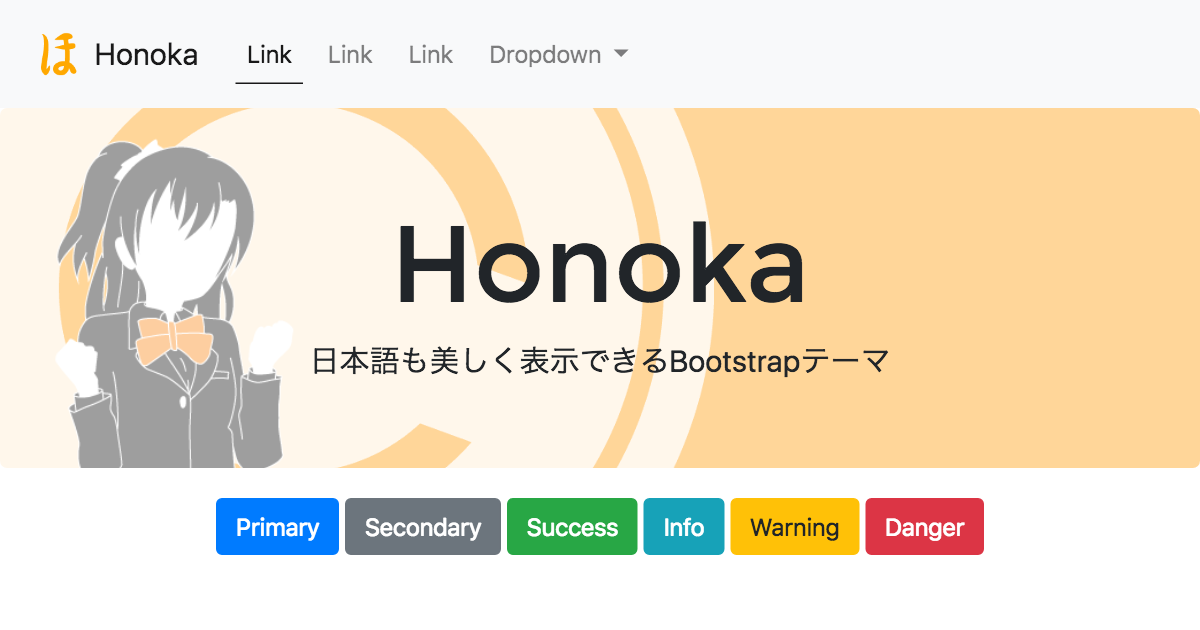
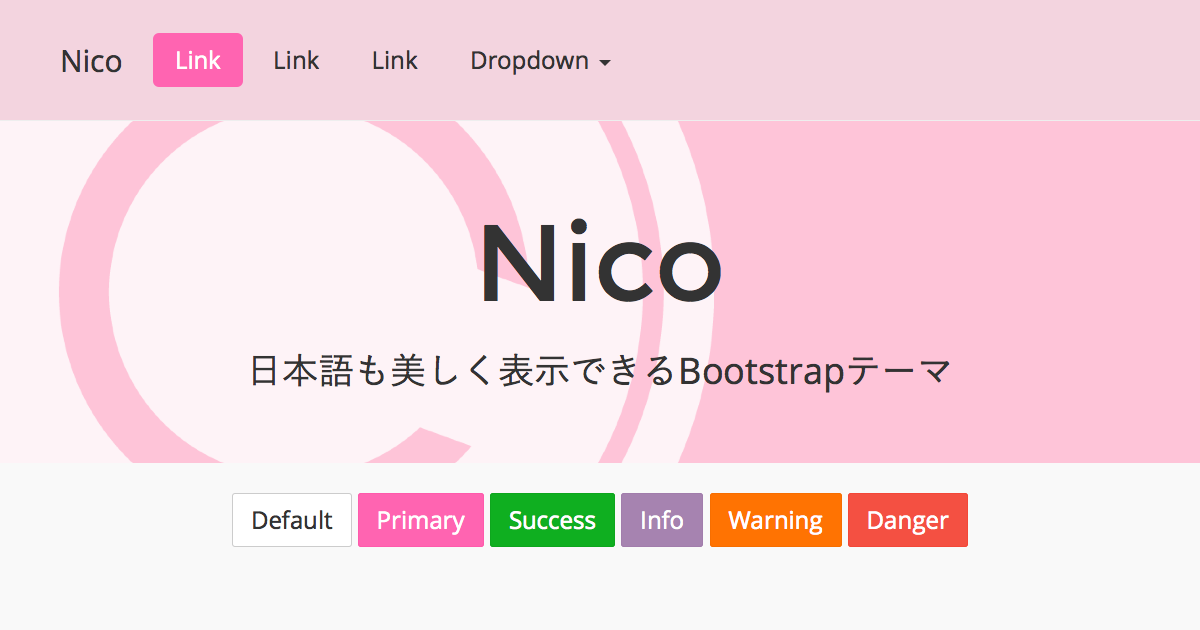
docs: update files in docs/

diff --git a/docs/index.html b/docs/index.html
@@ -4,26 +4,23 @@
   <meta charset="UTF-8">
   <meta name="viewport" content="width=device-width, initial-scale=1, shrink-to-fit=no">
 
-  <title>Honoka - 日本語も美しく表示できるBootstrapテーマ</title>
+  <title>Nico - &quot;Honoka&quot;を元にした、日本語も美しく表示できるBootstrapテーマ</title>
 
   <link rel="shortcut icon" type="image/png" href="assets/img/brand.png">
 
-  <meta property="og:title" content="Honoka - 日本語も美しく表示できるBootstrapテーマ">
+  <meta property="og:title" content="Nico - &quot;Honoka&quot;を元にした、日本語も美しく表示できるBootstrapテーマ">
   <meta property="og:type" content="website">
-  <meta property="og:url" content="http://honokak.osaka/">
-  <meta property="og:image" content="http://honokak.osaka/assets/img/sample.png">
-  <meta property="og:description" content="Honokaは日本語表示に最適化されたオリジナルBootstrapテーマです。">
+  <meta property="og:url" content="//nico.kubosho.com">
+  <meta property="og:image" content="//nico.kubosho.com/assets/img/sample.png">
+  <meta property="og:description" content="Nicoは&quot;Honoka&quot;を元にした、日本語表示に最適化されたオリジナルBootstrapテーマです。">
 
   <meta name="twitter:card" content="summary_large_image">
-  <meta name="twitter:site" content="@MITLicense">
-  <meta name="twitter:creator" content="@MITLicense">
-  <meta name="twitter:title" content="Honoka - 日本語も美しく表示できるBootstrapテーマ">
-  <meta name="twitter:image" content="http://honokak.osaka/assets/img/sample.png">
-  <meta name="twitter:description" content="Honokaは日本語表示に最適化されたオリジナルBootstrapテーマです。">
+  <meta name="twitter:site" content="@kubosho_">
+  <meta name="twitter:creator" content="@kubosho_">
+  <meta name="twitter:image" content="//nico.kubosho.com/assets/img/sample.png">
 
-  <link rel="stylesheet" type="text/css" href="css/bootstrap.css">
-  <link rel="stylesheet" type="text/css" href="assets/css/example.css">
-
+  <link rel="stylesheet" href="css/bootstrap.css">
+  <link rel="stylesheet" href="assets/css/example.css">
   <link rel="stylesheet" href="https://use.fontawesome.com/releases/v5.0.8/css/all.css" integrity="sha384-3AB7yXWz4OeoZcPbieVW64vVXEwADiYyAEhwilzWsLw+9FgqpyjjStpPnpBO8o8S" crossorigin="anonymous">
 </head>
 <body>
@@ -32,8 +29,8 @@
   <nav class="navbar navbar-expand-lg navbar-light bg-light">
     <div class="container">
       <a class="navbar-brand" href="./">
-        <img src="assets/img/brand.png" width="30" height="30" class="d-inline-block align-top mr-1" alt="Honoka">
-        Honoka
+        <img src="assets/img/brand.png" width="30" height="30" class="d-inline-block align-top mr-1" alt="Nico">
+        Nico
       </a>
       <button class="navbar-toggler" type="button" data-toggle="collapse" data-target="#navbar" aria-controls="navbar" aria-expanded="false" aria-label="Toggle navigation">
         <span class="navbar-toggler-icon"></span>
@@ -54,15 +51,15 @@
             </div>
           </li>
           <li class="nav-item">
-            <a class="nav-link" href="http://github.com/windyakin/Honoka/releases">Download</a>
+            <a class="nav-link" href="http://github.com/kubosho/Nico/releases">Download</a>
           </li>
           <li class="nav-item">
-            <a class="nav-link" href="http://github.com/windyakin/Honoka/wiki">Wiki</a>
+            <a class="nav-link" href="http://github.com/kubosho/Nico/wiki">Wiki</a>
           </li>
         </ul>
         <div class="form-inline my-2 my-lg-0">
-          <a href="https://twitter.com/intent/tweet?url=http://honokak.osaka/&text=Honoka%20%2d%20%e6%97%a5%e6%9c%ac%e8%aa%9e%e3%82%82%e7%be%8e%e3%81%97%e3%81%8f%e8%a1%a8%e7%a4%ba%e3%81%a7%e3%81%8d%e3%82%8bBootstrap%e3%83%86%e3%83%bc%e3%83%9e" class="btn btn-twitter mr-1"><i class="fab fa-twitter fa-lg fa-fw"></i> Tweet</a>
-          <a href="http://www.facebook.com/sharer.php?u=http://honokak.osaka/" class="btn btn-facebook mr-1"><i class="fab fa-facebook-f fa-lg fa-fw"></i> Share</a>
+          <a href="https://twitter.com/intent/tweet?url=https://nico.kubosho.com/&text=Nico%20%2d%20%e6%97%a5%e6%9c%ac%e8%aa%9e%e3%82%82%e7%be%8e%e3%81%97%e3%81%8f%e8%a1%a8%e7%a4%ba%e3%81%a7%e3%81%8d%e3%82%8bBootstrap%e3%83%86%e3%83%bc%e3%83%9e" class="btn btn-twitter mr-1"><i class="fab fa-twitter fa-lg fa-fw"></i> Tweet</a>
+          <a href="http://www.facebook.com/sharer.php?u=https://nico.kubosho.com/" class="btn btn-facebook mr-1"><i class="fab fa-facebook-f fa-lg fa-fw"></i> Share</a>
           <a href="javascript:window.open('http://b.hatena.ne.jp/add?mode=confirm&is_bm=1&title='+escape(document.title)+'&url='+escape(location.href),%20'_blank',%20'width=520,height=600,resizable=1,scrollbars=1');undefined;" class="btn btn-hatena"><i class="icon icon-hatebu fa-lg"></i> Bookmark</a>
         </div>
       </div>
@@ -82,10 +79,10 @@
           <span class="d-inline-block">日本語も</span><span class="d-inline-block"><u>美しく</u></span><br>
           <span class="d-inline-block">表示されて</span><span class="d-inline-block">ますか？</span>
         </div>
-        <p class="lead mt-2">Honoka は日本語も美しく表示できる Bootstrap テーマです</p>
+        <p class="lead mt-2">Nico は日本語も美しく表示できる Bootstrap テーマです</p>
         <hr>
         <ul class="download list-inline">
-          <li class="list-inline-item"><a href="//github.com/windyakin/Honoka/releases" class="btn btn-honoka btn-lg last-release-download-link"><i class="fab fa-github-alt"></i> Download from GitHub</a></li>
+          <li class="list-inline-item"><a href="//github.com/kubosho/Nico/releases" class="btn btn-honoka btn-lg last-release-download-link"><i class="fab fa-github-alt"></i> Download from GitHub</a></li>
           <li class="list-inline-item"><a href="/bootstrap-ja.html" class="btn btn-primary btn-lg"><i class="fa fa-play-circle"></i> Live Demo</a></li>
         </ul>
         <div class="basedon small">
@@ -99,9 +96,9 @@
 <aside class="social">
   <div class="social-button">
     <ul>
-      <li><iframe src="https://ghbtns.com/github-btn.html?user=windyakin&repo=Honoka&type=star&count=true" frameborder="0" scrolling="0" width="90px" height="20px"></iframe></li>
+      <li><iframe src="https://ghbtns.com/github-btn.html?user=kubosho&repo=Nico&type=star&count=true" frameborder="0" scrolling="0" width="90px" height="20px"></iframe></li>
       <li><a href="https://twitter.com/share" class="twitter-share-button" data-lang="ja" data-dnt="true">ツイート</a></li>
-      <li><div class="fb-like" data-href="http://honokak.osaka/" data-layout="button_count" data-action="like" data-show-faces="false" data-share="false"></div></li>
+      <li><div class="fb-like" data-href="https://nico.kubosho.com/" data-layout="button_count" data-action="like" data-show-faces="false" data-share="false"></div></li>
       <li><a href="http://b.hatena.ne.jp/entry/" class="hatena-bookmark-button" data-hatena-bookmark-layout="standard-balloon" data-hatena-bookmark-lang="ja" title="このエントリーをはてなブックマークに追加"><img src="https://b.st-hatena.com/images/entry-button/button-only@2x.png" alt="このエントリーをはてなブックマークに追加" width="20" height="20" style="border: none;"></a></li>
     </ul>
   </div>
@@ -111,8 +108,8 @@
   <div class="container">
     <div class="row">
       <div class="col-12 subtitle">
-        <h2>HonokaはオリジナルBootstrapテーマです</h2>
-        <p class="lead">HonokaはBootstrapテーマの一つですが、以下の特徴を持っています。</p>
+        <h2>NicoはオリジナルBootstrapテーマです</h2>
+        <p class="lead">NicoはBootstrapテーマの一つですが、以下の特徴を持っています。</p>
       </div>
     </div>
     <div class="row">
@@ -122,7 +119,7 @@
         </div>
         <div class="point-description">
           <h4>Easy to Start</h4>
-          <p>HonokaはBootstrapを元に製作されているため、非常に高い互換性を持っています。マークアップに関する規約はほとんど変わりません。</p>
+          <p>NicoはBootstrapを元に製作されているため、非常に高い互換性を持っています。マークアップに関する規約はほとんど変わりません。</p>
         </div>
       </div>
       <div class="col-md-3 col-sm-6 point-box">
@@ -131,7 +128,7 @@
         </div>
         <div class="point-description">
           <h4>Replace Bootstrap</h4>
-          <p>既にBootstrapを使って作成したウェブサイトがある場合は、CSSを置き換えるだけで簡単にHonokaを利用できます。</p>
+          <p>既にBootstrapを使って作成したウェブサイトがある場合は、CSSを置き換えるだけで簡単にNicoを利用できます。</p>
         </div>
       </div>
       <div class="col-md-3 col-sm-6 point-box">
@@ -140,7 +137,7 @@
         </div>
         <div class="point-description">
           <h4>Open Source</h4>
-          <p>Honokaを構成するファイルは全て公開されています。変数の定義ファイルを変更することで自分好みの設定に変更することも可能です。</p>
+          <p>Nicoを構成するファイルは全て公開されています。変数の定義ファイルを変更することで自分好みの設定に変更することも可能です。</p>
         </div>
       </div>
       <div class="col-md-3 col-sm-6 point-box">
@@ -167,26 +164,26 @@
     <div class="row my-3">
       <div class="col-12 text-center">
         <div class="form-group">
-          <a href="//github.com/windyakin/Honoka/releases" class="btn btn-primary btn-lg last-release-download-link"><i class="fas fa-file-archive fa-lg mr-2"></i> Download from GitHub</a>
-          <p class="form-text text-muted"><small>Last version v<span class="last-version"></span> ・ <a href="//github.com/windyakin/Honoka/blob/master/LICENSE">MIT License</a></small></p>
+          <a href="//github.com/kubosho/Nico/releases" class="btn btn-primary btn-lg last-release-download-link"><i class="fas fa-file-archive fa-lg mr-2"></i> Download from GitHub</a>
+          <p class="form-text text-muted"><small>Last version v<span class="last-version"></span> ・ <a href="//github.com/kubosho/Nico/blob/master/LICENSE">MIT License</a></small></p>
         </div>
       </div>
     </div>
     <div class="row">
       <div class="col-md-6 text-center my-3">
-        <h3><a href="https://www.npmjs.com/package/bootstrap-honoka"><img src="assets/img/npm-logo.png" alt="npm" class="img-fluid package-system-logo"></a></h3>
+        <h3><a href="https://www.npmjs.com/package/bootstrap-nico"><img src="assets/img/npm-logo.png" alt="npm" class="img-fluid package-system-logo"></a></h3>
         <div class="input-group input-group-lg">
-          <input type="text" class="form-control border-secondary" id="npm-install-command" value="npm install --save bootstrap-honoka" onclick="this.select();" readonly="readonly">
+          <input type="text" class="form-control border-secondary" id="npm-install-command" value="npm install --save bootstrap-nico" onclick="this.select();" readonly="readonly">
           <span class="input-group-append">
             <button type="button" class="btn btn-light border-secondary" data-clipboard-target="#npm-install-command"><i class="fa fa-clipboard"></i></button>
           </span>
         </div>
-        <div><small class="form-text text-muted"><a href="https://www.npmjs.com/package/bootstrap-honoka">npmjs.com</a> / v3.3.7-a 以降から対応</small></div>
+        <div><small class="form-text text-muted"><a href="https://www.npmjs.com/package/bootstrap-nico">npmjs.com</a> / v4.0.0 以降から対応</small></div>
       </div>
       <div class="col-md-6 text-center my-3">
         <h3><img src="assets/img/bower-logo.png" alt="Bower" class="img-fluid package-system-logo"> Bower</h3>
         <div class="input-group input-group-lg">
-          <input type="text" class="form-control border-secondary" id="bower-install-command" value="bower install --save $(node -e &#34;$(curl -fsSL https://cdn.honokak.osaka/last.js)&#34; windyakin Honoka)"
+          <input type="text" class="form-control border-secondary" id="bower-install-command" value="bower install --save $(node -e &#34;$(curl -fsSL https://cdn.honokak.osaka/last.js)&#34; kubosho Nico)"
            onclick="this.select();" readonly="readonly">
            <span class="input-group-append">
             <button type="button" class="btn btn-light border-secondary" data-clipboard-target="#bower-install-command"><i class="fa fa-clipboard"></i></button>
@@ -197,7 +194,7 @@
     </div>
     <div class="row mt-3">
       <div class="col-12 text-center">
-        <p>使い方やファイルの説明など、詳しくは <a href="//github.com/windyakin/Honoka#readme">README</a> または <a href="//github.com/windyakin/Honoka/wiki">Wiki</a> をご確認ください</p>
+        <p>使い方やファイルの説明など、詳しくは <a href="//github.com/kubosho/Nico#readme">README</a> または <a href="//github.com/kubosho/Nico/wiki">Wiki</a> をご確認ください</p>
       </div>
     </div>
   </div>
@@ -208,7 +205,7 @@
     <div class="row">
       <div class="col-12 subtitle">
         <h2>Available on Framework!</h2>
-        <p class="lead">Honokaは様々なパッケージマネージャからも利用することができます</p>
+        <p class="lead">Nicoは様々なパッケージマネージャからも利用することができます</p>
       </div>
     </div>
     <div class="row">
@@ -225,7 +222,7 @@
       <div class="col-md-6 text-center">
         <h3><img src="assets/img/bower-logo.png" alt="Bower" class="img-fluid package-system-logo"> Bower</h3>
         <div class="input-group input-group-lg">
-          <input type="text" class="form-control" id="bower-install-command" value="bower install --save $(node -e &#34;$(curl -fsSL https://cdn.honokak.osaka/last.js)&#34; windyakin Honoka)"
+          <input type="text" class="form-control" id="bower-install-command" value="bower install --save $(node -e &#34;$(curl -fsSL https://cdn.honokak.osaka/last.js)&#34; kubosho Nico)"
            onclick="this.select();" readonly="readonly">
            <span class="input-group-append">
             <button type="button" class="btn btn-secondary" data-clipboard-target="#bower-install-command"><i class="fa fa-clipboard"></i></button>
@@ -241,8 +238,8 @@
   <div class="container">
     <div class="row">
       <div class="col-12 subtitle">
-        <h2>Honokaを使って作られたウェブサイト</h2>
-        <p class="lead">HonokaやそのForkテーマで構築されたウェブサイトを紹介します</p>
+        <h2>Nicoを使って作られたウェブサイト</h2>
+        <p class="lead">NicoやそのForkテーマで構築されたウェブサイトを紹介します</p>
       </div>
     </div>
     <div class="row">
@@ -256,7 +253,7 @@
       </div>
       <div class="col-md-4">
         <div class="card my-3">
-          <a href="http://sugoi.windyakin.net/"><img src="//cdn.honokak.osaka/assets/img/sugoi.png" class="card-img-top"></a>
+          <a href="http://sugoi.kubosho.net/"><img src="//cdn.honokak.osaka/assets/img/sugoi.png" class="card-img-top"></a>
           <div class="card-body text-center">
             <h5 class="card-title m-0">この高専がすごい！</h5>
           </div>
@@ -373,35 +370,23 @@
   </div>
 </section>
 
-
 <footer class="small">
   <div class="social-button">
     <ul>
-      <li><iframe src="https://ghbtns.com/github-btn.html?user=windyakin&repo=Honoka&type=star&count=true" frameborder="0" scrolling="0" width="90px" height="20px"></iframe></li>
+      <li><iframe src="https://ghbtns.com/github-btn.html?user=kubosho&repo=Nico&type=star&count=true" frameborder="0" scrolling="0" width="90px" height="20px"></iframe></li>
       <li><a href="https://twitter.com/share" class="twitter-share-button" data-lang="ja" data-dnt="true">ツイート</a></li>
-      <li><div class="fb-like" data-href="http://honokak.osaka/" data-layout="button_count" data-action="like" data-show-faces="false" data-share="false"></div></li>
+      <li><div class="fb-like" data-href="https://nico.kubosho.com/" data-layout="button_count" data-action="like" data-show-faces="false" data-share="false"></div></li>
       <li><a href="http://b.hatena.ne.jp/entry/" class="hatena-bookmark-button" data-hatena-bookmark-layout="standard-balloon" data-hatena-bookmark-lang="ja" title="このエントリーをはてなブックマークに追加"><img src="https://b.st-hatena.com/images/entry-button/button-only@2x.png" alt="このエントリーをはてなブックマークに追加" width="20" height="20" style="border: none;"></a></li>
     </ul>
   </div>
   <div class="container">
     <div class="row">
       <div class="col-12 text-center copyright">
-        &copy; 2015 Honoka
+        &copy; 2015 Nico
       </div>
     </div>
   </div>
 </footer>
-
-<script>
-  (function(i,s,o,g,r,a,m){i['GoogleAnalyticsObject']=r;i[r]=i[r]||function(){
-  (i[r].q=i[r].q||[]).push(arguments)},i[r].l=1*new Date();a=s.createElement(o),
-  m=s.getElementsByTagName(o)[0];a.async=1;a.src=g;m.parentNode.insertBefore(a,m)
-  })(window,document,'script','//www.google-analytics.com/analytics.js','ga');
-
-  ga('create', 'UA-61413040-1', 'auto');
-  ga('send', 'pageview');
-
-</script>
 
 <script src="//cdnjs.cloudflare.com/ajax/libs/clipboard.js/1.5.5/clipboard.min.js"></script>
 <script src="//ajax.googleapis.com/ajax/libs/jquery/2.1.1/jquery.min.js"></script>
@@ -411,12 +396,12 @@ new Clipboard('.btn');
 $(document).ready(function(e) {
   $.when(
     $.ajax({
-      url: 'https://api.github.com/repos/windyakin/Honoka/releases/latest',
+      url: 'https://api.github.com/repos/kubosho/Nico/releases/latest',
       type: 'get',
       dataType: 'json'
     }),
     $.ajax({
-      url: 'https://cdn.rawgit.com/windyakin/Honoka/master/bower.json',
+      url: 'https://cdn.rawgit.com/kubosho/Nico/master/bower.json',
       type: 'get',
       dataType: 'json'
     })
@@ -424,7 +409,7 @@ $(document).ready(function(e) {
   .done(function(last, base) {
     $('.last-version').text(last[0].tag_name.split('v')[1]);
     $('.base-version').text(base[0].devDependencies.bootstrap);
-    $('.last-release-download-link').attr({'href': '//github.com/windyakin/Honoka/releases/tag/' + last[0].tag_name })
+    $('.last-release-download-link').attr({'href': '//github.com/kubosho/Nico/releases/tag/' + last[0].tag_name })
   });
 });
 </script>

diff --git a/docs/bootstrap-ja.html b/docs/bootstrap-ja.html
@@ -4,7 +4,7 @@
   <meta charset="UTF-8">
   <meta name="viewport" content="width=device-width, initial-scale=1, shrink-to-fit=no">
 
-  <title>Honoka</title>
+  <title>Nico</title>
 
   <link rel="stylesheet" type="text/css" href="css/bootstrap.css">
   <style type="text/css">
@@ -56,8 +56,8 @@
   <nav class="navbar navbar-expand-lg navbar-light bg-light">
     <div class="container">
       <a class="navbar-brand" href="./">
[1 lines of base64/hex data omitted]
-        Honoka
[1 lines of base64/hex data omitted]
+        Nico
       </a>
       <button class="navbar-toggler" type="button" data-toggle="collapse" data-target="#navbar" aria-controls="navbar" aria-expanded="false" aria-label="Toggle navigation">
         <span class="navbar-toggler-icon"></span>
@@ -78,10 +78,10 @@
             </div>
           </li>
           <li class="nav-item">
-            <a class="nav-link" href="http://github.com/windyakin/Honoka/releases">Download</a>
+            <a class="nav-link" href="http://github.com/kubosho/Nico/releases">Download</a>
           </li>
           <li class="nav-item">
-            <a class="nav-link" href="http://github.com/windyakin/Honoka/wiki">Wiki</a>
+            <a class="nav-link" href="http://github.com/kubosho/Nico/wiki">Wiki</a>
           </li>
         </ul>
       </div>
@@ -94,10 +94,10 @@
   <div class="page-header" id="banner">
     <div class="row my-4">
       <div class="col-12">
-        <h1 class="display-3">Honoka</h1>
+        <h1 class="display-3">Nico</h1>
         <p class="lead">日本語も美しく表示できるBootstrapテーマ</p>
         <hr>
-        <p>このページでは Bootstrap テーマ Honoka のサンプルを見ることができます。</p>
+        <p>このページでは Bootstrap テーマ Nico のサンプルを見ることができます。</p>
       </div>
     </div>
   </div>

diff --git a/docs/bootstrap.html b/docs/bootstrap.html
@@ -4,7 +4,7 @@
   <meta charset="UTF-8">
   <meta name="viewport" content="width=device-width, initial-scale=1, shrink-to-fit=no">
 
-  <title>Honoka</title>
+  <title>Nico</title>
 
   <link rel="stylesheet" type="text/css" href="css/bootstrap.css">
   <style type="text/css">
@@ -51,8 +51,8 @@
   <nav class="navbar navbar-expand-lg navbar-light bg-light">
     <div class="container">
       <a class="navbar-brand" href="./">
[1 lines of base64/hex data omitted]
-        Honoka
[1 lines of base64/hex data omitted]
+        Nico
       </a>
       <button class="navbar-toggler" type="button" data-toggle="collapse" data-target="#navbar" aria-controls="navbar" aria-expanded="false" aria-label="Toggle navigation">
         <span class="navbar-toggler-icon"></span>
@@ -73,10 +73,10 @@
             </div>
           </li>
           <li class="nav-item">
-            <a class="nav-link" href="http://github.com/windyakin/Honoka/releases">Download</a>
+            <a class="nav-link" href="http://github.com/kubosho/Nico/releases">Download</a>
           </li>
           <li class="nav-item">
-            <a class="nav-link" href="http://github.com/windyakin/Honoka/wiki">Wiki</a>
+            <a class="nav-link" href="http://github.com/kubosho/Nico/wiki">Wiki</a>
           </li>
         </ul>
       </div>
@@ -89,8 +89,8 @@
   <div class="page-header" id="banner">
     <div class="row my-4">
       <div class="col-12">
-        <h1 class="display-3">Honoka</h1>
-        <p class="lead">Honoka is one of the original Bootstrap theme.</p>
+        <h1 class="display-3">Nico</h1>
+        <p class="lead">Nico is one of the original Bootstrap theme.</p>
       </div>
     </div>
   </div>

diff --git a/docs/css/bootstrap.css b/docs/css/bootstrap.css
@@ -1,8 +1,8 @@
 @charset "UTF-8";
 /*!
- * Honoka v4.0.0 (http://honokak.osaka/)
- * Copyright 2015 windyakin
- * Licensed under MIT (https://github.com/windyakin/Honoka/blob/master/LICENSE)
+ * Nico v4.0.0 (https://nico.kubosho.com)
+ * Copyright 2015 kubosho
+ * Licensed under MIT (https://github.com/kubosho/Nico/blob/master/LICENSE)
  */
 /*!
  * Bootstrap v4.0.0 (https://getbootstrap.com)

diff --git a/docs/css/bootstrap.min.css b/docs/css/bootstrap.min.css
@@ -1,7 +1,7 @@
 @charset "UTF-8";/*!
- * Honoka v4.0.0 (http://honokak.osaka/)
- * Copyright 2015 windyakin
- * Licensed under MIT (https://github.com/windyakin/Honoka/blob/master/LICENSE)
+ * Nico v4.0.0 (https://nico.kubosho.com)
+ * Copyright 2015 kubosho
+ * Licensed under MIT (https://github.com/kubosho/Nico/blob/master/LICENSE)
  */
 /*!
  * Bootstrap v4.0.0 (https://getbootstrap.com)
